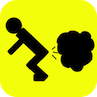
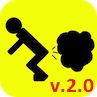
Version 2.0 for concrete 8.0 and above. Fart be back!

Changed region(s): [[0.4948, 0.8041, 0.9897, 0.9588]]

diff --git a/controller.php b/controller.php
@@ -1,31 +1,51 @@
 <?php
-defined('C5_EXECUTE') or die(_("Access Denied."));
 
-class FartScrollPackage extends Package {
+/**
+*
+* FartScroll v2 (Concrete >= 8.0) Package.
+* @author Michael Krasnow <mnkras@gmail.com>
+* @link http://www.mnkras.com
+* @author VasilSlavchev <vasilslavchev@gmail.com>
+* @link https://www.vasilslavchev.info
+* @license http://creativecommons.org/licenses/by/3.0/ CC 3.0 Unported
+* @version 2.0
+* @description From the Creators of "I am gonna farttt" and "Its the final fartdown"
+*
+*/
 
-	protected $pkgHandle = 'fart_scroll';
-	protected $appVersionRequired = '5.5';
-	protected $pkgVersion = '1.0';
+namespace Concrete\Package\FartScroll;
 
-	public function getPackageName() {
-		return t("Fart Scroll");
-	}
+use Package;
+use Concrete\Core\View\View;
+// Important to load up legacy: concrete\src\legacy\loader.
+use Concrete\Core\Legacy\Loader;
 
-	public function getPackageDescription() {
-		return t("Description... HA!");
-	}
+class Controller extends Package {
 
-	public function on_start() {
-		$v = View::getInstance();
-		$v->addFooterItem(Loader::helper('html')->javascript('fartscroll.js', $this->pkgHandle));
-		$v->addFooterItem('<script type="text/javascript">$(document).fartscroll();</script>');
-	}
+    protected $pkgHandle = 'fart_scroll';
+    protected $appVersionRequired = '8.0';
+    protected $pkgVersion = '2.0';
+    protected $pkgDescription = 'From the Creators of "I am gonna farttt" and "Its the final fartdown".';
 
-	public function install() {
-		$pkg = parent::install();
-	}
+    public function getPackageName() {
+        return t("Fart Scroll v2.0 (Concrete >= 8.0)");
+    }
 
-	public function uninstall() {
-		$pkg = parent::uninstall();
-	}
+    public function getPackageDescription() {
+        return t('From the Creators of "I am gonna farttt" and "Its the final fartdown".');
+    }
+
+    public function on_start() {
+        $v = View::getInstance();
+        $v->addFooterItem(Loader::helper('html')->javascript('fartscroll.js', $this->pkgHandle));
+        $v->addFooterItem('<script type="text/javascript">$(document).fartscroll();</script>');
+    }
+
+    public function install() {
+        $pkg = parent::install();
+    }
+
+    public function uninstall() {
+        $pkg = parent::uninstall();
+    }
 }
